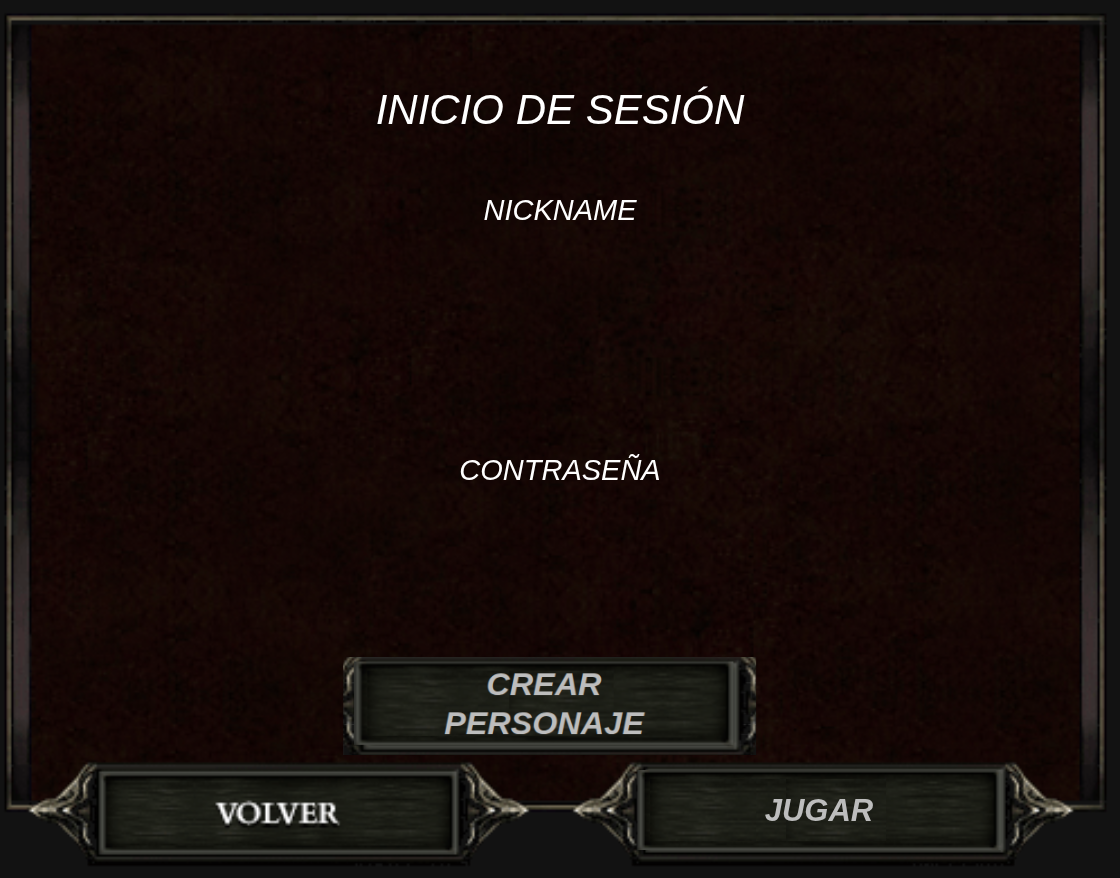
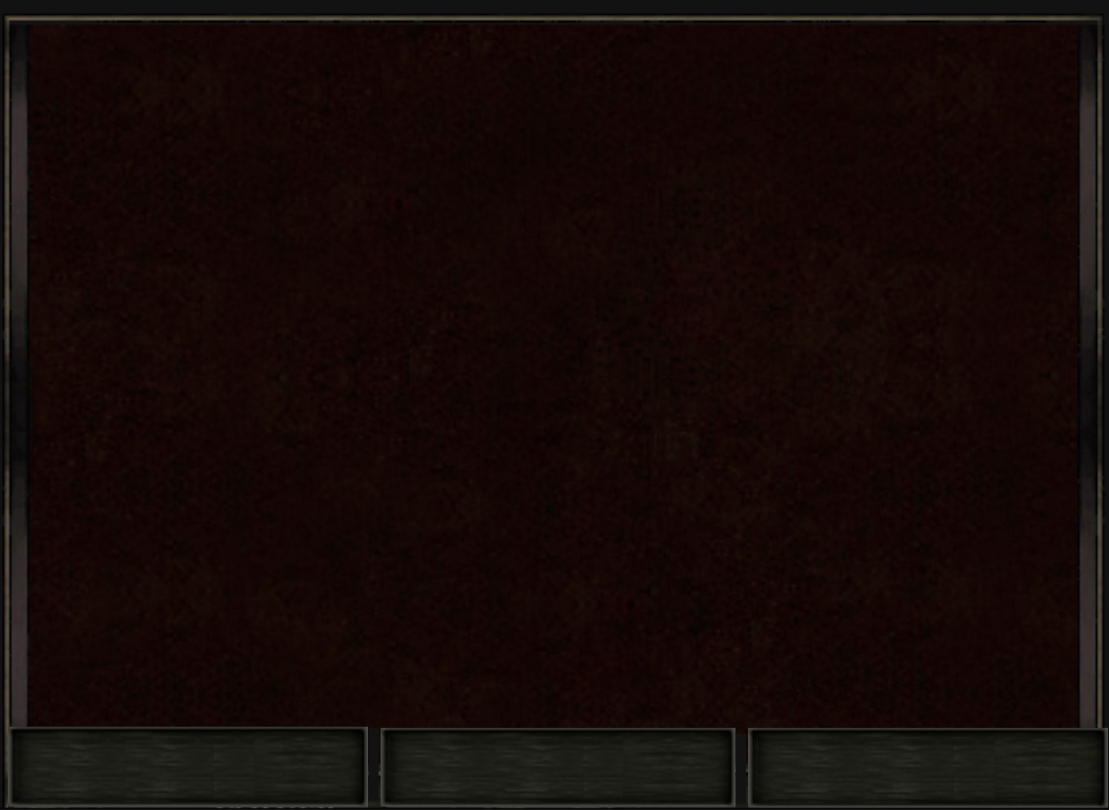
fix(menu): arreglos visuales + fixes del loop del menu

diff --git a/client/Qt/cargarPersonaje/cargarPersonaje.qml b/client/Qt/cargarPersonaje/cargarPersonaje.qml
@@ -26,6 +26,22 @@ Window {
         visible: text !== ""
     }
 
+    component ButtonText: Text {
+        width: 205
+        height: 50
+        horizontalAlignment: Text.AlignHCenter
+        verticalAlignment: Text.AlignVCenter
+        color: "white"
+    }
+
+    component TitleText: Text {
+        width: 205
+        height: 50
+        horizontalAlignment: Text.AlignHCenter
+        verticalAlignment: Text.AlignVCenter
+        color: "white"
+    }
+
     TextField {
         id: nickInput
         x: parent.width / 2 - width / 2
@@ -54,6 +70,18 @@ Window {
             border.color: "white"
         }
         text: ""
+    }
+
+    TitleText {
+        text: qsTr("NICKNAME")
+        x: parent.width / 2 - width / 2
+        y: nickInput.y - height * 1.5
+    }
+
+    TitleText {
+        text: qsTr("CONTRASEÑA")
+        x: parent.width / 2 - width / 2
+        y: passwordInput.y - height * 1.5
     }
 
     ErrorText {
@@ -87,12 +115,12 @@ Window {
                 }
             }
         }
-        id: jugarButton
-        x: 369
-        y: 420
-        width: 205
+        id: iniciarSesionButton
+        x: parent.width - width
+        y: parent.height - height
+        width: 208
         height: 50
-        source: "../graficos/jugarButton.png"
+        source: "../graficos/emptybutton.png"
     }
 
     Image {
@@ -103,25 +131,40 @@ Window {
             }
         }
         id: volverButton
-        x: jugarButton.x - parent.width / 2 + 2
-        y: 420
-        width: 210
-        height: 47
-        source: "../graficos/VolverButton.png"
+        x: 4
+        y: parent.height - height
+        width: 208
+        height: 50
+        source: "../graficos/emptybutton.png"
     }
 
     Image {
         TapHandler {
             onTapped: {
-                console.log("Rediriguiendo a la pantalla de creación de personaje");
-                cargarPersonajeController.volverACrearPersonaje();
+                console.log("Rediriguiendo a la pantalla de creación de cuenta");
+                cargarPersonajeController.volverACrearCuenta();
             }
         }
-        id: crearPersonajeButton
-        x: nickInput.x
-        y: parent.height / 9 * 7 - height / 4
-        width: 215
-        height: 57
-        source: "../graficos/crearPersonajeButton.png"
+        id: crearCuentaButton
+        x: (parent.width / 2) - width / 2 
+        y: parent.height - height
+        width: 208
+        height: 50
+        source: "../graficos/emptybutton.png"
+    }
+
+    ButtonText {
+        text: qsTr("INICIAR SESIÓN")
+        anchors.centerIn: iniciarSesionButton
+    }
+
+    ButtonText {
+        text: qsTr("VOLVER")
+        anchors.centerIn: volverButton
+    }
+
+    ButtonText {
+        text: qsTr("CREAR CUENTA")
+        anchors.centerIn: crearCuentaButton
     }
 }

diff --git a/client/Qt/elegirPersonaje/elegirPersonaje.qml b/client/Qt/elegirPersonaje/elegirPersonaje.qml
@@ -26,10 +26,19 @@ Window {
         source: `../graficos/${sourceBaseName}${checked ? "-Checked" : "@2x"}.png`
     }
 
+    component ErrorText: Text {
+        width: 300
+        height: 30
+        horizontalAlignment: Text.AlignHCenter
+        verticalAlignment: Text.AlignVCenter
+        color: "red"
+        visible: text !== ""
+    }
+
     TextField {
         id: nickInput
         x: parent.width / 2 - width / 2
-        y: parent.height / 8.5
+        y: parent.height / 10
         width: 230
         height: 30
         placeholderText: qsTr("Ingrese su nick")
@@ -44,7 +53,7 @@ Window {
     TextField {
         id: passwordInput
         x: nickInput.x
-        y: nickInput.y * 2.6 - height / 2
+        y: nickInput.y * 2.9 - height / 2
         width: 230
         height: 30
         placeholderText: qsTr("Ingrese su contraseña")
@@ -56,13 +65,38 @@ Window {
         text: ""
     }
 
+    ErrorText {
+        id: nickErrorText
+        x: nickInput.x + nickInput.width / 2 - width / 2
+        y: nickInput.y + nickInput.height - 2
+        text: ""
+    }
+
+    ErrorText {
+        id: passwordErrorText
+        x: passwordInput.x + passwordInput.width / 2 - width / 2
+        y: passwordInput.y + passwordInput.height
+        text: ""
+    }
+
+    ErrorText {
+        id: generalErrorText
+        x: parent.width / 2 - width / 2
+        y: crearPersonajeButton.y - height - 5
+        text: ""
+    }
+
 
     Image {
         TapHandler {
             onTapped: {
                 if (nickInput.text !== "" && raza != "" && clase != "") {
-                    if (!personajeController.esTextoValido(nickInput.text) || !personajeController.esTextoValido(passwordInput.text)) {
-                        console.log("El nick/contraseña no debe tener espacios y tiene que ser menor o igual a 32 bytes.");
+                    const esNickValido = personajeController.esTextoValido(nickInput.text);
+                    const esPasswordValido = personajeController.esTextoValido(passwordInput.text);
+
+                    nickErrorText.text = !esNickValido ? "El nick no puede tener espacios y debe ser menor o igual a 32 bytes." : "";
+                    passwordErrorText.text = !esPasswordValido ? "La contraseña no puede tener espacios y debe ser menor o igual a 32 bytes." : "";
+                    if (!esNickValido || !esPasswordValido) {
                         return;
                     }
                     personajeController.setRaza(raza);
@@ -71,7 +105,7 @@ Window {
                     personajeController.setPassword(passwordInput.text);
                     console.log("Personaje creado con éxito, entrando a la partida");
                 } else {
-                    console.log("Por favor, complete todos los campos para crear el personaje");
+                    generalErrorText.text = "Por favor, complete todos los campos para crear el personaje";
                 }
             }
         }
@@ -110,7 +144,7 @@ Window {
         }
         id: switchHumano
         x: 110
-        y: 262
+        y: 242
         sourceBaseName: "LED"
         checked: false
     }
@@ -174,7 +208,7 @@ Window {
         }
         id: switchMago
         x: switchHumano.x
-        y: switchHumano.y * 1.5 - 10
+        y: switchHumano.y * 1.5
         sourceBaseName: "LED"
         checked: false
     }

diff --git a/client/Qt/cargarPersonaje/cargarPersonajeController.cpp b/client/Qt/cargarPersonaje/cargarPersonajeController.cpp
@@ -12,7 +12,7 @@ CargarPersonajeController::CargarPersonajeController(QObject* parent)
 
 void CargarPersonajeController::run(DatosConexion& datos, CargarPersonajeResultado& resultado) {
     _volverAlMenu = false;
-    _volverACrearPersonaje = false;
+    _volverACrearCuenta = false;
     resultado = CargarPersonajeResultado::ContinuarConPersonajeExistente;
 
     // Cargar cargarPersonaje.qml
@@ -30,8 +30,8 @@ void CargarPersonajeController::run(DatosConexion& datos, CargarPersonajeResulta
     datos.setDatosPersonaje(datosPersonaje.nick, datosPersonaje.password);
     if (_volverAlMenu) {
         resultado = CargarPersonajeResultado::VolverAlMenu;
-    } else if (_volverACrearPersonaje) {
-        resultado = CargarPersonajeResultado::CrearPersonaje;
+    } else if (_volverACrearCuenta) {
+        resultado = CargarPersonajeResultado::CrearCuenta;
     }
 }
 
@@ -40,8 +40,8 @@ void CargarPersonajeController::volverAlMenu() {
     emit cargarPersonajeCompleted();
 }
 
-void CargarPersonajeController::volverACrearPersonaje() {
-    _volverACrearPersonaje = true;
+void CargarPersonajeController::volverACrearCuenta() {
+    _volverACrearCuenta = true;
     emit cargarPersonajeCompleted();
 }
 

diff --git a/client/Qt/cargarPersonaje/cargarPersonajeController.h b/client/Qt/cargarPersonaje/cargarPersonajeController.h
@@ -9,7 +9,7 @@
 
 enum class CargarPersonajeResultado {
     VolverAlMenu,
-    CrearPersonaje,
+    CrearCuenta,
     ContinuarConPersonajeExistente,
 };
 
@@ -28,7 +28,7 @@ public slots:
     void setPassword(const QString& password);
     bool esTextoValido(const QString& texto) const;
     void volverAlMenu();
-    void volverACrearPersonaje();
+    void volverACrearCuenta();
 
     QString getNick() const;
     QString getPassword() const;
@@ -39,7 +39,7 @@ signals:
 private:
     DatosPersonaje datosPersonaje;
     bool _volverAlMenu = false;
-    bool _volverACrearPersonaje = false;
+    bool _volverACrearCuenta = false;
 };
 
 #endif

diff --git a/client/Qt/menuController.cpp b/client/Qt/menuController.cpp
@@ -7,11 +7,11 @@
 MenuController::MenuController(){}
 
 void MenuController::run(DatosConexion& datos) {
-	bool terminoRegistro = false;
 
 	while (!terminoRegistro) {
 		LoginController login;
 		login.run(datos);
+		datos.clearError();
 
 		while (true) {
 			CargarPersonajeController cargarPersonaje;
@@ -39,13 +39,13 @@ void MenuController::run(DatosConexion& datos) {
 			break;
 		}
 	}
+	terminoRegistro = false;
     return;
 }
 
 DatosConexion MenuController::cuentaNoEncontrada() {
     DatosConexion datos;
     datos.setErrorLogin(MensajeError::CuentaNoEncontrada);
-	LoginController login;
     run(datos);
 	return datos;
 }
@@ -53,7 +53,6 @@ DatosConexion MenuController::cuentaNoEncontrada() {
 DatosConexion MenuController::nickYaExistente() {
     DatosConexion datos;
     datos.setErrorLogin(MensajeError::NickYaExistente);
-	LoginController login;
 	run(datos);
 	return datos;
 }
@@ -61,7 +60,6 @@ DatosConexion MenuController::nickYaExistente() {
 DatosConexion MenuController::puertoHostInvalidos() {
     DatosConexion datos;
     datos.setErrorLogin(MensajeError::PuertoHostInvalidos);
-	LoginController login;
     run(datos);
 	return datos;
 }

diff --git a/client/Qt/datosConexion.h b/client/Qt/datosConexion.h
@@ -72,6 +72,11 @@ public:
         }
     }
 
+    void clearError() {
+        errorLogin = false;
+        mensajeError = "";
+    }
+
     const DatosLogin& getDatosLogin() const {
         return datosLogin;
     }

diff --git a/client/Qt/conectionController.cpp b/client/Qt/conectionController.cpp
@@ -12,9 +12,10 @@ int ConnectionController::run(int argc, char* argv[]){
 	QGuiApplication app(argc, argv);
 	menu.run(datos);
 
-	while(pedirDatos) {
+	while(true) {
 		try{		
 			Client client(datos.getDatosLogin().host.c_str(), datos.getDatosLogin().puerto.c_str(), datos);
+			printf("Conexión exitosa al servidor en %s:%s\n Corriendo el cliente...", datos.getDatosLogin().host.c_str(), datos.getDatosLogin().puerto.c_str());
 			client.run();
 			return 0;
 			
@@ -26,6 +27,7 @@ int ConnectionController::run(int argc, char* argv[]){
 				nickYaExistente = true;
 			} else {
 				// Error desconocido, se asume que es un error de conexión (puerto/host inválidos)
+				printf("Error de conexión: %s\n", errorMsg.c_str());
 				puertoHostInvalidos = true;
 			}
 		}

diff --git a/client/Qt/menuController.h b/client/Qt/menuController.h
@@ -11,6 +11,8 @@ public:
     DatosConexion cuentaNoEncontrada();
     DatosConexion nickYaExistente();
     DatosConexion puertoHostInvalidos();
+private:
+    bool terminoRegistro = false;
 };
 
 #endif

diff --git a/client/Qt/conectionController.h b/client/Qt/conectionController.h
@@ -11,7 +11,6 @@ public:
 private:
     MenuController menu;
     DatosConexion datos;
-    bool pedirDatos = true;
     bool cuentaNoEncontrada = false;
     bool nickYaExistente = false;
     bool puertoHostInvalidos = false;